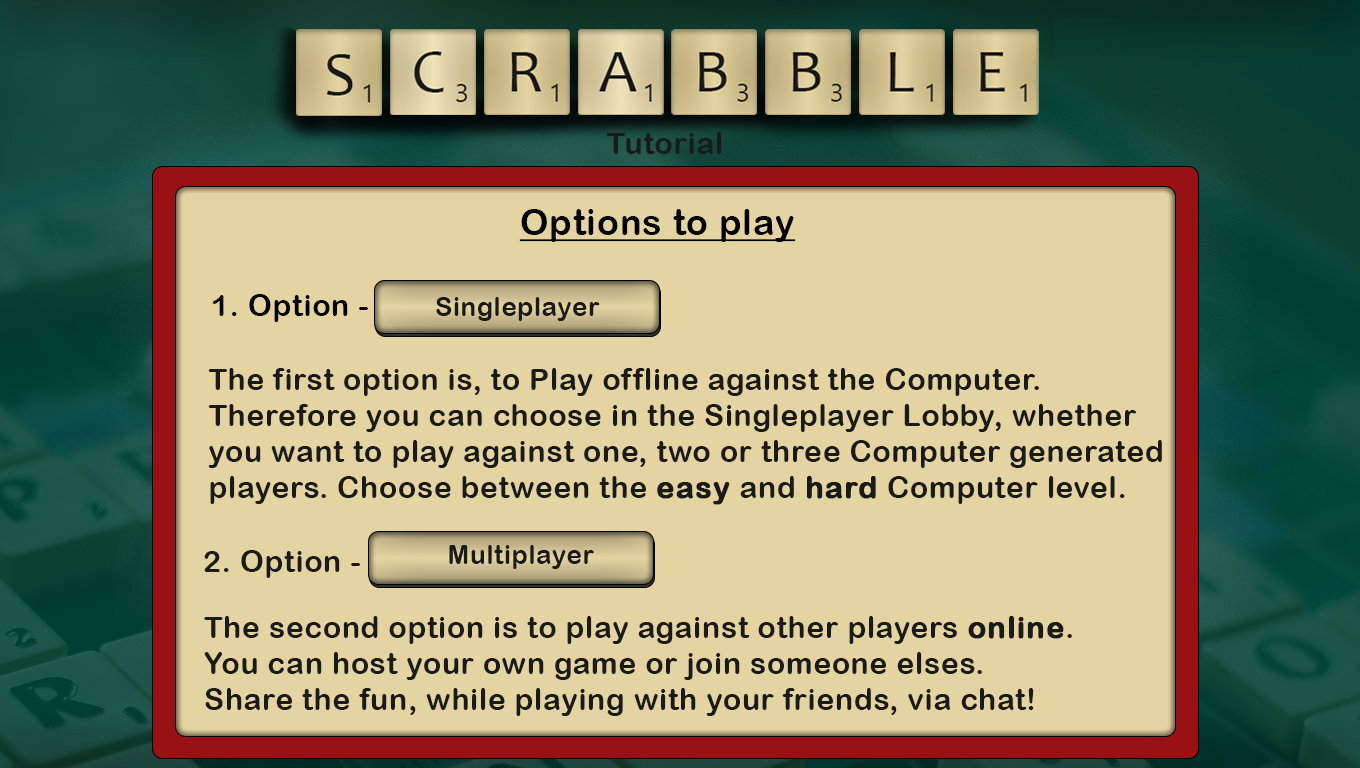
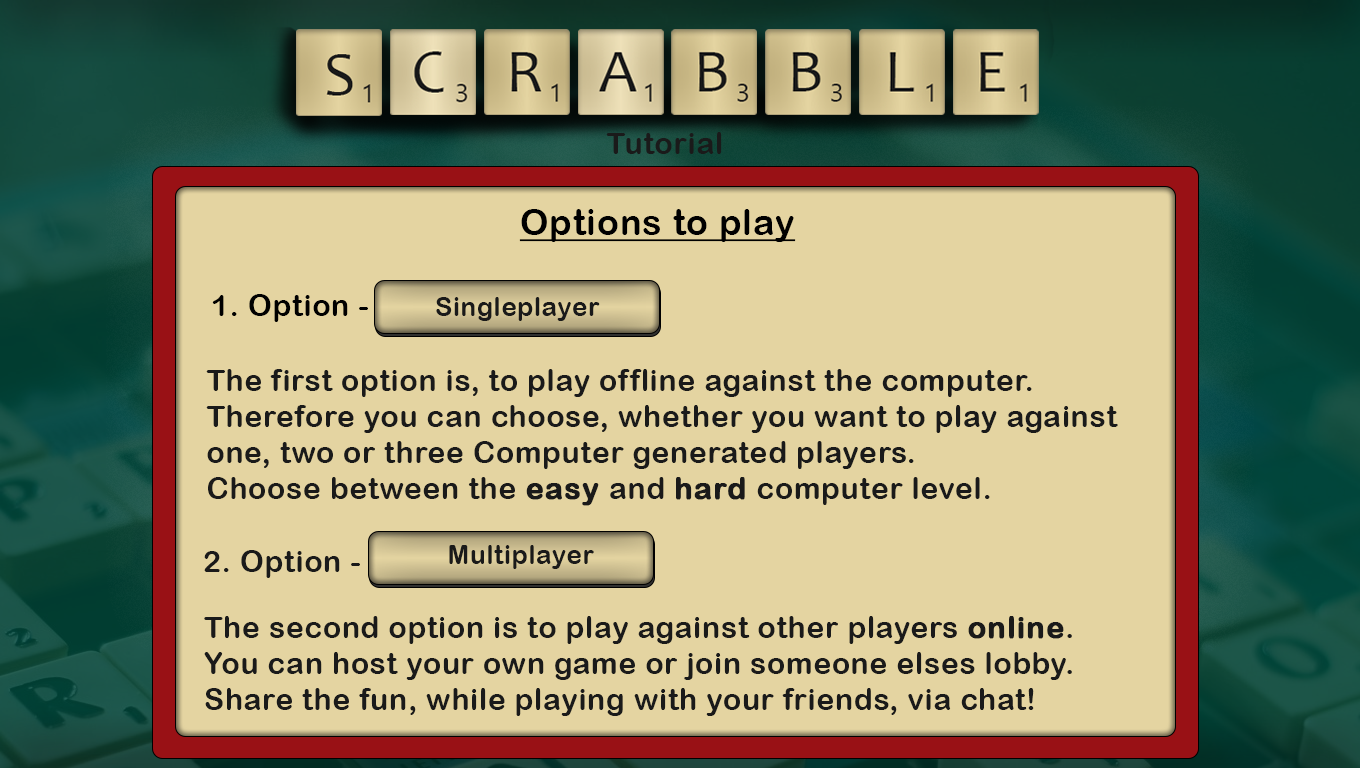
#95 rounds played and tutorial added

Changed region(s): [[0.1544, 0.4688, 0.8647, 0.6562], [0.7103, 0.8438, 0.8029, 0.875]]

diff --git a/src/main/java/com/scrab5/ui/InGameController.java b/src/main/java/com/scrab5/ui/InGameController.java
@@ -113,6 +113,8 @@ public abstract class InGameController implements Initializable {
   private Label skipPlay;
   @FXML
   private Label bagSize;
+  @FXML
+  private Label rounds;
   private int rackClicked;
   private ArrayList<ImageView> changes = new ArrayList<ImageView>();
 
@@ -210,6 +212,9 @@ public abstract class InGameController implements Initializable {
       undoLabel.setOpacity(0);
       undoButton.setOpacity(0);
     }
+
+    rounds.setText("Rounds played:  "
+        + Data.getGameSession().getRoundNumber() / Data.getGameSession().getListOfPlayers().size());
 
     if (turn && Data.getGameSession().getCurrentPlayer().getName()
         .equalsIgnoreCase(Data.getCurrentUser())) {
